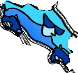
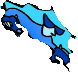
Rescue low-IoU small countries in globe warp pipeline

diff --git a/tools/build_globe_global_warps.py b/tools/build_globe_global_warps.py
@@ -56,9 +56,12 @@ TINY_ISLAND_MIN_COVERAGE = 0.72
 TINY_ISLAND_REGIONS = {"oceanien", "vastindien"}
 TINY_FALLBACK_MAX_TARGET_AREA_PX = 2600
 GLOBAL_TINY_FALLBACK_MAX_TARGET_AREA_PX = 260
+SMALL_COUNTRY_FALLBACK_MAX_TARGET_AREA_PX = 2600
 SELECTIVE_ISLAND_FALLBACK_MAX_TARGET_AREA_PX = 26000
 COMPONENT_FALLBACK_MAX_TARGET_AREA_PX = 22000
 COMPONENT_FALLBACK_MIN_COMPONENTS = 4
+LOW_IOU_RESCUE_THRESHOLD = 0.72
+LOW_IOU_RESCUE_MAX_TARGET_AREA_PX = 7000
 TINY_FALLBACK_MIN_SCORE_GAIN = 0.008
 
 # Region-specific tuning where one global default is not sufficient.
@@ -966,6 +969,8 @@ def should_try_tiny_fallback(job: RegionCountryJob) -> bool:
     area = int(job.target_area)
     if area <= GLOBAL_TINY_FALLBACK_MAX_TARGET_AREA_PX:
         return True
+    if area <= SMALL_COUNTRY_FALLBACK_MAX_TARGET_AREA_PX:
+        return True
     if (
         feature_key in SELECTIVE_ISLAND_FALLBACK_FEATURE_KEYS
         and area <= SELECTIVE_ISLAND_FALLBACK_MAX_TARGET_AREA_PX
@@ -1603,6 +1608,7 @@ def main() -> None:
             if should_try_tiny_fallback(job):
                 mask_u8 = (job.target_shape.mask > 0).astype(np.uint8)
                 sheet_score = tiny_quality_score(warped_rgba[:, :, 3], mask_u8)
+                sheet_iou = iou_from_alpha(warped_rgba[:, :, 3], job.target_shape.mask)
                 fallback_rgba = render_country_with_inverse_map(job, model)
                 fallback_rgba = stabilize_tiny_island_rgba(
                     fallback_rgba,
@@ -1612,12 +1618,25 @@ def main() -> None:
                     feature_key=str(job.country.get("featureKey", "")),
                 )
                 fallback_score = tiny_quality_score(fallback_rgba[:, :, 3], mask_u8)
+                fallback_iou = iou_from_alpha(fallback_rgba[:, :, 3], job.target_shape.mask)
                 min_gain = TINY_FALLBACK_MIN_SCORE_GAIN
                 if int(job.target_area) <= 260:
                     min_gain = 0.0015
                 elif int(job.target_area) <= 800:
                     min_gain = 0.004
-                if fallback_score > sheet_score + min_gain:
+                elif int(job.target_area) <= SMALL_COUNTRY_FALLBACK_MAX_TARGET_AREA_PX:
+                    min_gain = 0.003
+                use_fallback = fallback_score > sheet_score + min_gain
+                if (
+                    not use_fallback
+                    and int(job.target_area) <= LOW_IOU_RESCUE_MAX_TARGET_AREA_PX
+                    and sheet_iou < LOW_IOU_RESCUE_THRESHOLD
+                    and fallback_iou > sheet_iou + 0.0005
+                ):
+                    # Rescue low-IoU small countries when inverse rendering
+                    # yields any real overlap improvement.
+                    use_fallback = True
+                if use_fallback:
                     warped_rgba = fallback_rgba
                     used_tiny_fallback = True
                     tiny_fallback_count += 1
